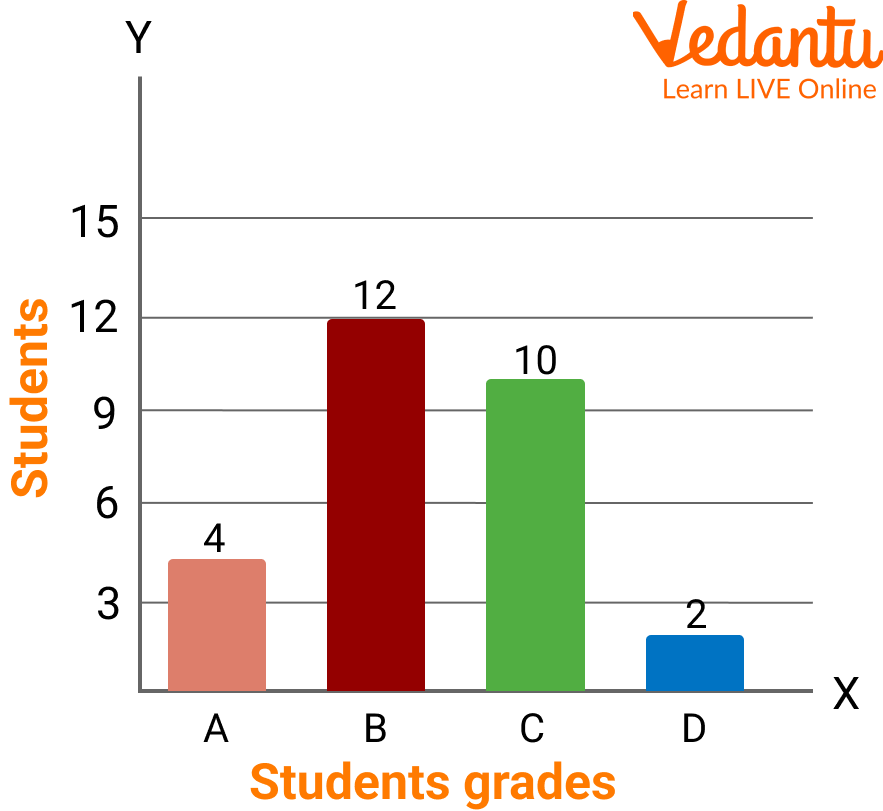
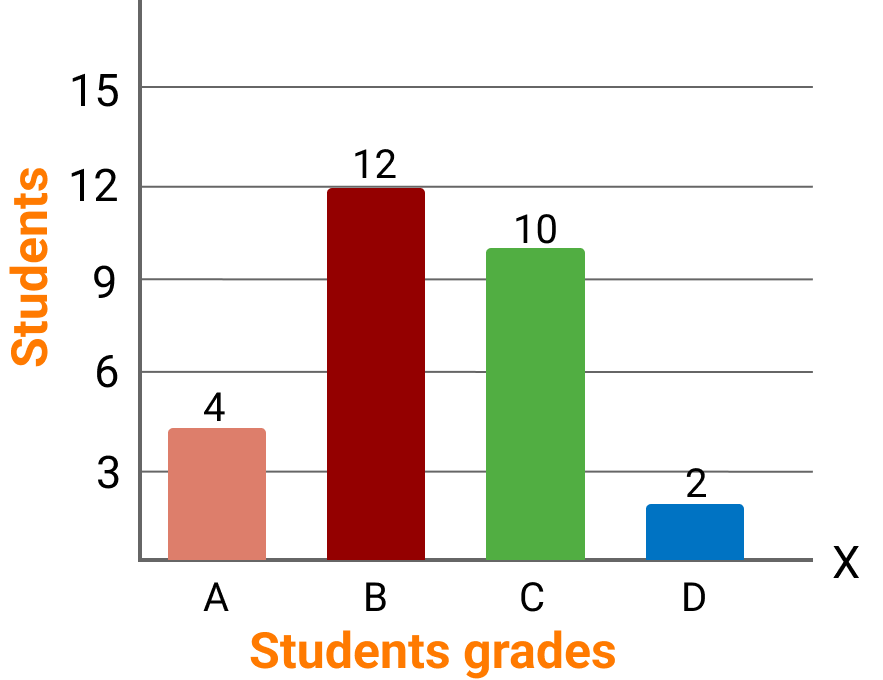
Initial commit: DiagramVoice project setup

diff --git a/app.py b/app.py
@@ -1,0 +1,88 @@
+import os, json, io
+import streamlit as st
+from dotenv import load_dotenv
+from google import genai
+from google.genai import types
+from PIL import Image
+from gtts import gTTS
+
+load_dotenv()
+client = genai.Client(api_key=os.getenv("GEMINI_API_KEY"))
+
+MODELS = ["gemini-3.1-flash-lite", "gemini-3.5-flash-lite",
+          "gemini-3.5-flash", "gemini-flash-latest"]
+
+EXTRACT_PROMPT = """You are describing a diagram for a blind student.
+Return ONLY valid JSON with keys: type ("graph"/"circuit"/"other"), title,
+x_axis {label, unit, range}, y_axis {label, unit, range},
+curves [{shape, slope, starts_at, ends_at, points}],
+components [circuit parts and connections, else []],
+key_features [short plain sentences], uncertain [things not clearly readable].
+RULES: Never invent numbers. If a value is not printed, put it in "uncertain"."""
+
+def call_llm(contents, as_json=False):
+    cfg = types.GenerateContentConfig(
+        response_mime_type="application/json" if as_json else None,
+        http_options=types.HttpOptions(timeout=30000),
+    )
+    for model in MODELS:
+        try:
+            return client.models.generate_content(
+                model=model, contents=contents, config=cfg).text
+        except Exception:
+            continue
+    raise RuntimeError("The AI service is busy. Please try again in a minute.")
+
+def make_description(data, lang):
+    prompt = f"""Write a spoken description of this diagram for a blind student,
+in {lang}. Use this fixed order: what kind of diagram it is, its overall shape,
+key labelled parts, key values, what it means. Mention anything listed as
+uncertain honestly. Plain sentences only, no markdown, under 120 words.
+Diagram data: {json.dumps(data)}"""
+    return call_llm([prompt])
+
+def make_audio(text, lang):
+    buf = io.BytesIO()
+    gTTS(text=text, lang="hi" if lang == "Hindi" else "en").write_to_fp(buf)
+    return buf.getvalue()
+
+st.set_page_config(page_title="DiagramVoice", page_icon="🔊")
+st.title("🔊 DiagramVoice")
+st.write("Upload a textbook graph or circuit and hear it explained.")
+
+lang = st.radio("Language", ["English", "Hindi"], horizontal=True)
+file = st.file_uploader("Upload a diagram", type=["png", "jpg", "jpeg"])
+
+if file:
+    img = Image.open(file)
+    st.image(img, caption="Your diagram")
+
+    if st.button("Describe this diagram"):
+        try:
+            with st.spinner("Reading the diagram..."):
+                data = json.loads(call_llm([img, EXTRACT_PROMPT], as_json=True))
+                text = make_description(data, lang)
+                audio = make_audio(text, lang)
+            st.session_state.update(data=data, text=text, audio=audio)
+        except Exception as e:
+            st.error(f"Something went wrong: {e}")
+
+if "text" in st.session_state:
+    st.subheader("Description")
+    st.write(st.session_state["text"])
+    st.audio(st.session_state["audio"], format="audio/mp3")
+
+    if st.session_state["data"].get("uncertain"):
+        st.warning("Not sure about: " +
+                   "; ".join(map(str, st.session_state["data"]["uncertain"])))
+
+    with st.expander("Structured data (JSON)"):
+        st.json(st.session_state["data"])
+
+    q = st.text_input("Ask a question about this diagram")
+    if q:
+        ans = call_llm([f"""Answer briefly in {lang} for a blind student.
+Use ONLY this diagram data. If it isn't in the data, say you are not sure.
+Data: {json.dumps(st.session_state['data'])}
+Question: {q}"""])
+        st.write(ans)

diff --git a/batch_test.py b/batch_test.py
@@ -7,7 +7,7 @@ from PIL import Image
 load_dotenv()
 client = genai.Client(api_key=os.getenv("GEMINI_API_KEY"))
 
-MODELS = ["gemini-3.1-flash-lite", "gemini-3.5-flash-lite",
+MODELS = ["gemini-3.5-flash-lite","gemini-3.1-flash-lite",
           "gemini-3.5-flash", "gemini-flash-latest"]
 
 PROMPT = """You are describing a diagram for a blind student.

diff --git a/test.py b/test.py
@@ -32,6 +32,7 @@ from google.genai import types
 
 models_to_try = [
     "gemini-3.5-flash",
+    "gemini-3.5-flash-lite",
     "gemini-flash-latest",
     "gemini-3.1-flash-lite",
     "gemini-3.8-flash",
